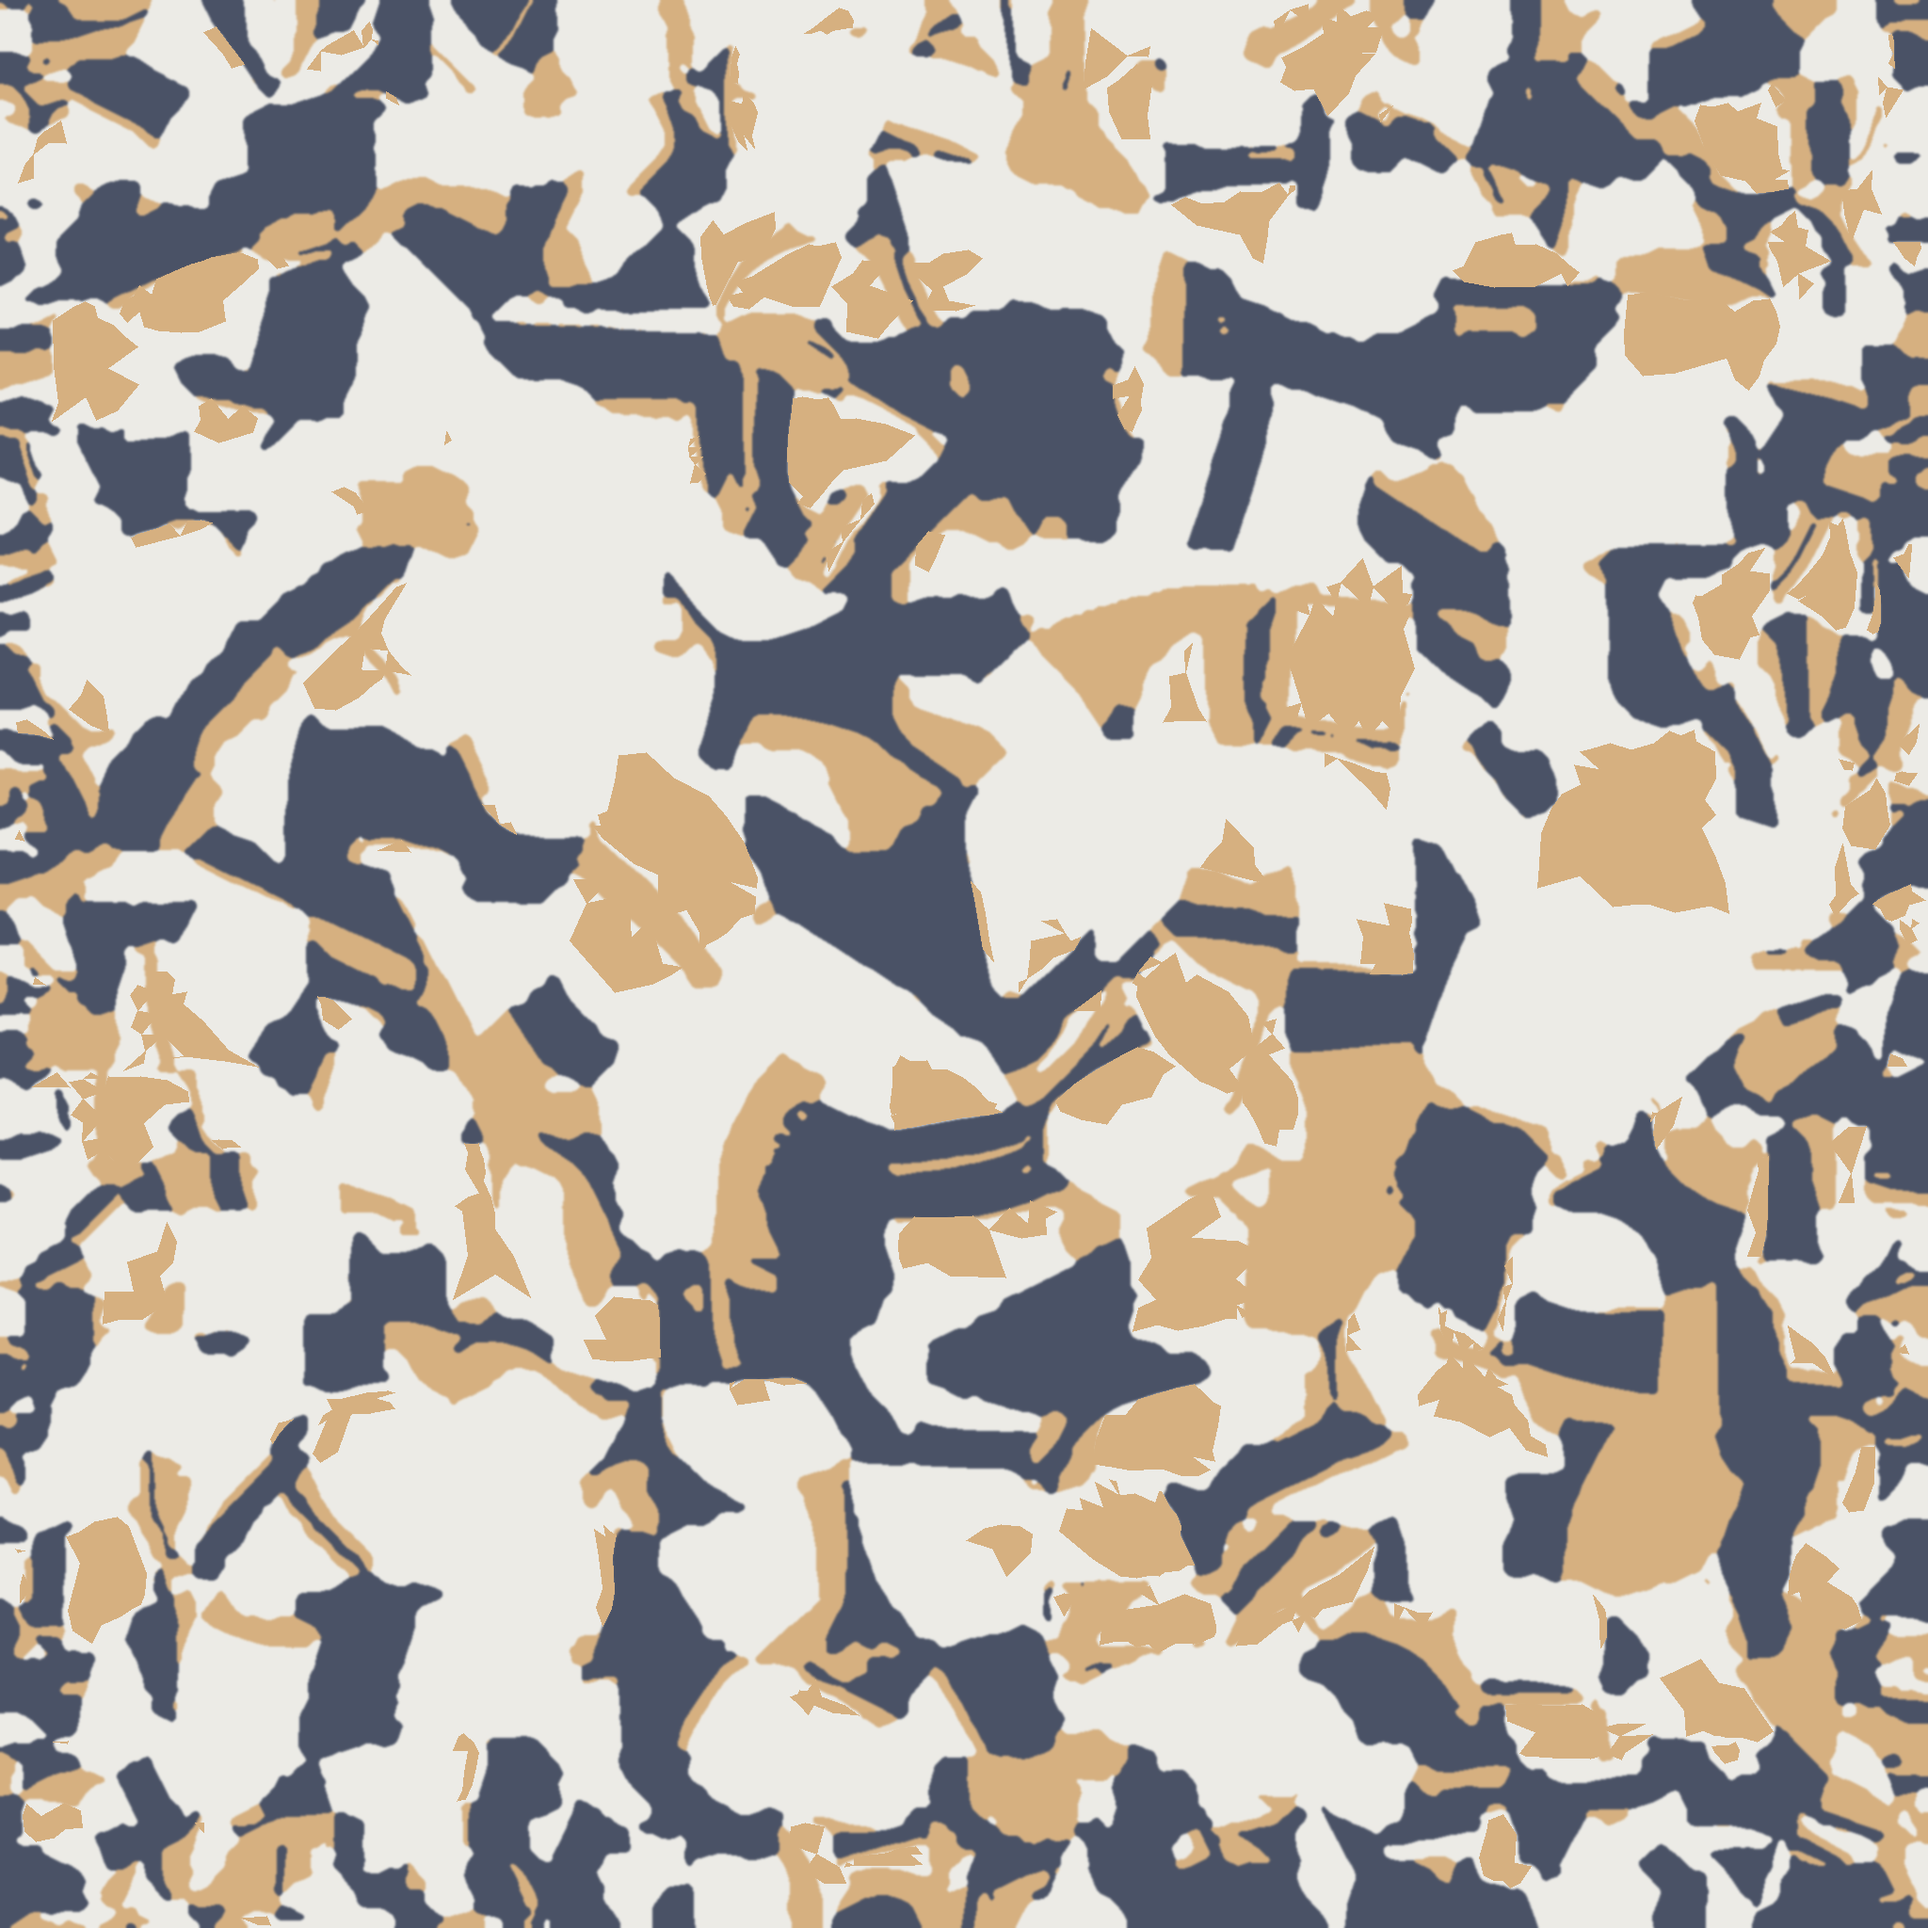
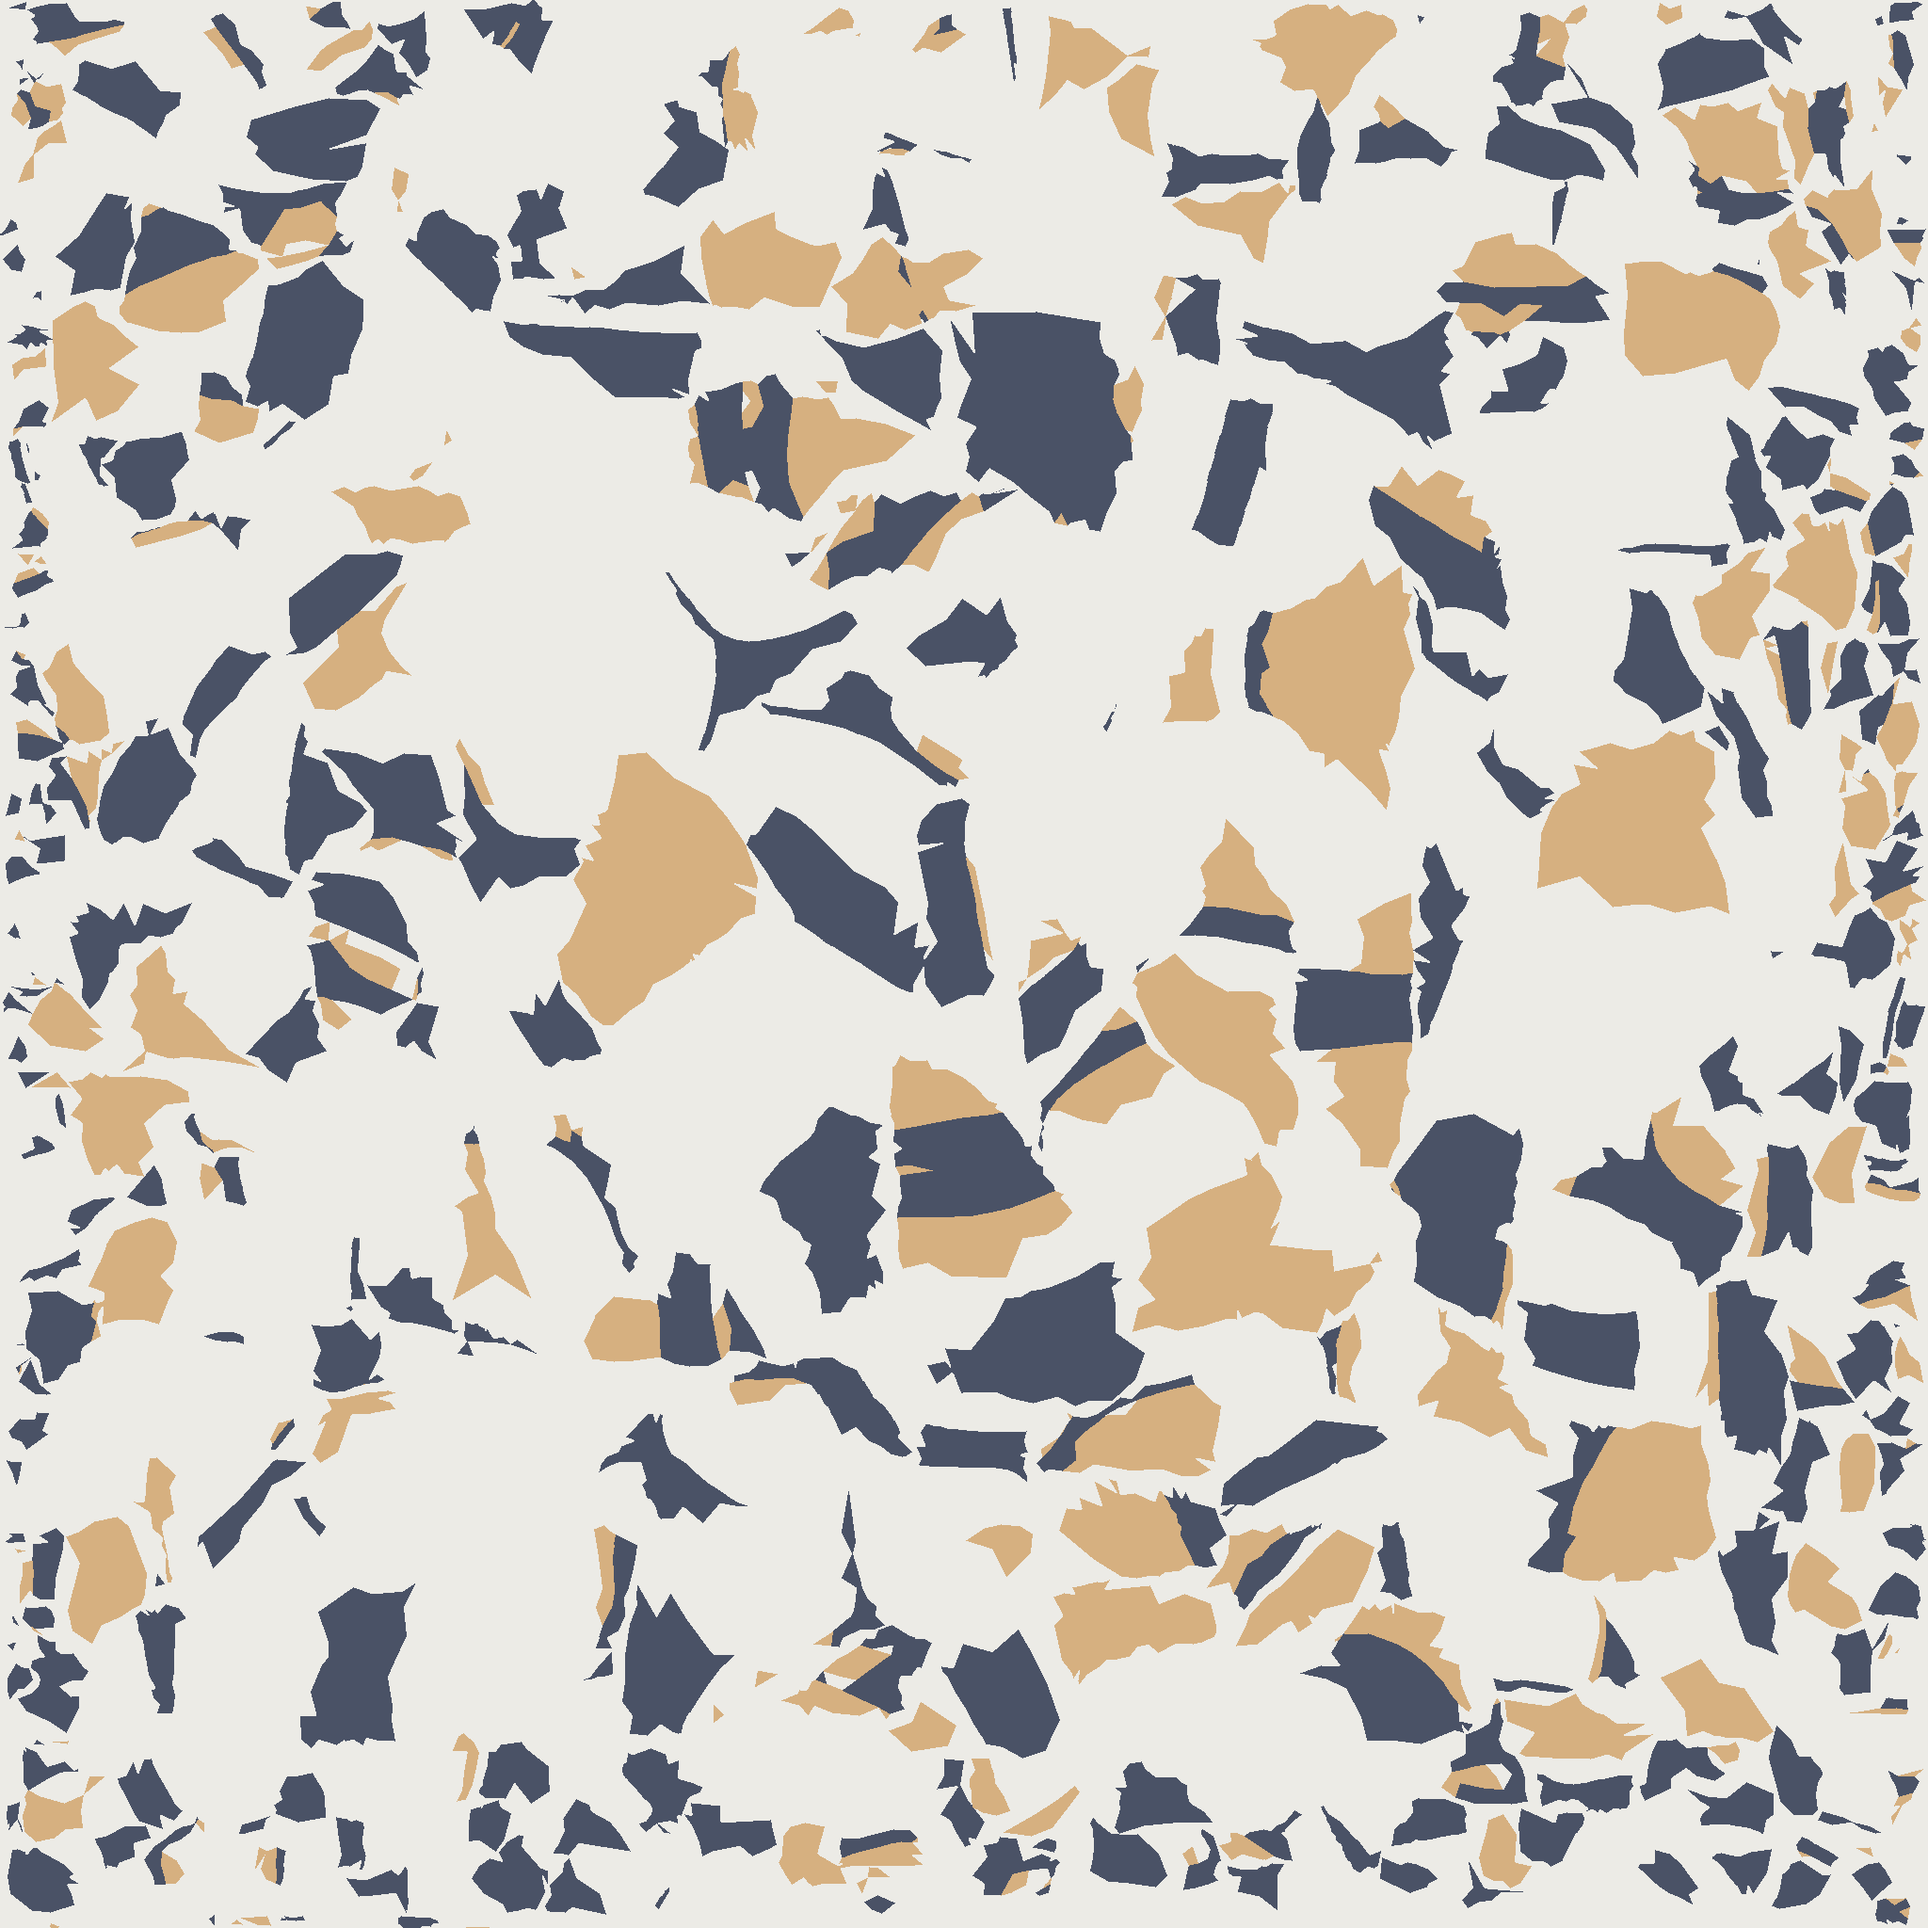
Экипировка: текстуры перепечены чистыми однотонными областями по граням модели — без рваных краёв; ладонь краги только на стороне ладони
Claude-Session: https://claude.ai/code/session_01EDLv5suW1boUD5SsfJHPwH

diff --git a/unity/Tools/rebake.py b/unity/Tools/rebake.py
@@ -1,0 +1,79 @@
+# Перепекает текстуру модели чистыми однотонными областями — без «рваных» краёв.
+#   python3 rebake.py dir/name "ecebe6,4a5266,d6b080" [palm=1] [cuffY=0.25]
+# 1) каждой грани — ближайший цвет палитры по средней краске под ней;
+# 2) несколько проходов «большинства соседей» по смежности граней — сглаживает границы, убирает пятна;
+# 3) (palm) грани ладони (-Z, ниже раструба), бывшие белыми, — в цвет кожи;
+# 4) текстура рисуется заново: UV-треугольник каждой грани заливается её цветом, плюс поля (dilation) против швов.
+import sys, numpy as np, trimesh
+from PIL import Image, ImageDraw, ImageFilter
+base = sys.argv[1]
+pal = np.array([[int(h[i:i + 2], 16) for i in (0, 2, 4)] for h in sys.argv[2].split(',')], float)
+palm = len(sys.argv) > 3 and sys.argv[3] == '1'
+cuff = float(sys.argv[4]) if len(sys.argv) > 4 else 0.25
+m = trimesh.load(base + '.obj', force='mesh', process=False)
+img = Image.open(base + '.png').convert('RGB'); w, h = img.size
+a = np.asarray(img).astype(float)
+uv = m.visual.uv; F = m.faces; V = m.vertices
+# средний цвет под гранью: центр + 3 точки ближе к углам
+samp = []
+for wts in ([1/3, 1/3, 1/3], [.6, .2, .2], [.2, .6, .2], [.2, .2, .6]):
+    p = (uv[F] * np.array(wts)[None, :, None]).sum(1)
+    samp.append(a[np.clip(((1 - p[:, 1] % 1) * (h - 1)).astype(int), 0, h - 1), np.clip(((p[:, 0] % 1) * (w - 1)).astype(int), 0, w - 1)])
+c = np.median(np.stack(samp), axis=0)
+cls = ((c[:, None, :] - pal[None]) ** 2).sum(-1).argmin(1)
+# смежность граней по общим рёбрам (по позициям, чтобы склеить UV-швы)
+key = {}
+vid = np.unique(np.round(V, 5), axis=0, return_inverse=True)[1].ravel()
+Fv = vid[F]
+edges = {}
+for fi, (x, y, z) in enumerate(Fv):
+    for e in ((x, y), (y, z), (z, x)):
+        edges.setdefault((min(e), max(e)), []).append(fi)
+nb = [[] for _ in range(len(F))]
+for fs in edges.values():
+    for i in fs:
+        for j in fs:
+            if i != j: nb[i].append(j)
+area = m.area_faces
+for it in range(4):
+    new = cls.copy()
+    for i in range(len(F)):
+        if not nb[i]: continue
+        votes = np.zeros(len(pal)); votes[cls[i]] += area[i] * 1.2
+        for j in nb[i]: votes[cls[j]] += area[j]
+        new[i] = votes.argmax()
+    cls = new
+if palm:
+    fn = m.face_normals; cy = V[F].mean(1)[:, 1]
+    white = 0; skin = len(pal) - 1
+    sel = (fn[:, 2] < -0.5) & (cy < cuff) & (cls == white)
+    cls[sel] = skin
+    # кожа бывает только на стороне ладони; на боковых и тыльных валиках — белый
+    cls[(cls == skin) & ((fn[:, 2] > -0.15) | (cy >= cuff))] = white
+    for it in range(2):   # подчистить края ладони
+        new = cls.copy()
+        for i in range(len(F)):
+            if cls[i] in (white, skin) and nb[i]:
+                cnt = np.bincount(cls[nb[i]], minlength=len(pal))
+                if cnt[skin] >= 2 and cls[i] == white and fn[i, 2] < -0.2 and cy[i] < cuff: new[i] = skin
+                elif cnt[skin] == 0 and cls[i] == skin: new[i] = white
+        cls = new
+# новая текстура
+out = Image.new('RGB', (w, h), tuple(int(x) for x in pal[0]))
+mask = Image.new('L', (w, h), 0)
+d = ImageDraw.Draw(out); dm = ImageDraw.Draw(mask)
+for t in range(len(F)):
+    pts = [((uv[j, 0] % 1) * w, (1 - uv[j, 1] % 1) * h) for j in F[t]]
+    col = tuple(int(x) for x in pal[cls[t]])
+    d.polygon(pts, fill=col, outline=col); dm.polygon(pts, fill=255, outline=255)
+# поля: расширяем закрашенное наружу, чтобы на швах не было фона
+arr = np.asarray(out).copy(); mk = np.asarray(mask) > 0
+for _ in range(6):
+    grown = np.asarray(Image.fromarray(arr).filter(ImageFilter.MaxFilter(3)))
+    gm = np.asarray(Image.fromarray((mk * 255).astype(np.uint8)).filter(ImageFilter.MaxFilter(3))) > 0
+    new_px = gm & ~mk
+    # для новых пикселей берём цвет соседа через медиану по закрашенным
+    med = np.asarray(Image.fromarray(arr).filter(ImageFilter.ModeFilter(3)))
+    arr[new_px] = med[new_px]; mk = gm
+Image.fromarray(arr).save(base + '.png')
+print('rebaked', base, np.bincount(cls, minlength=len(pal)))
